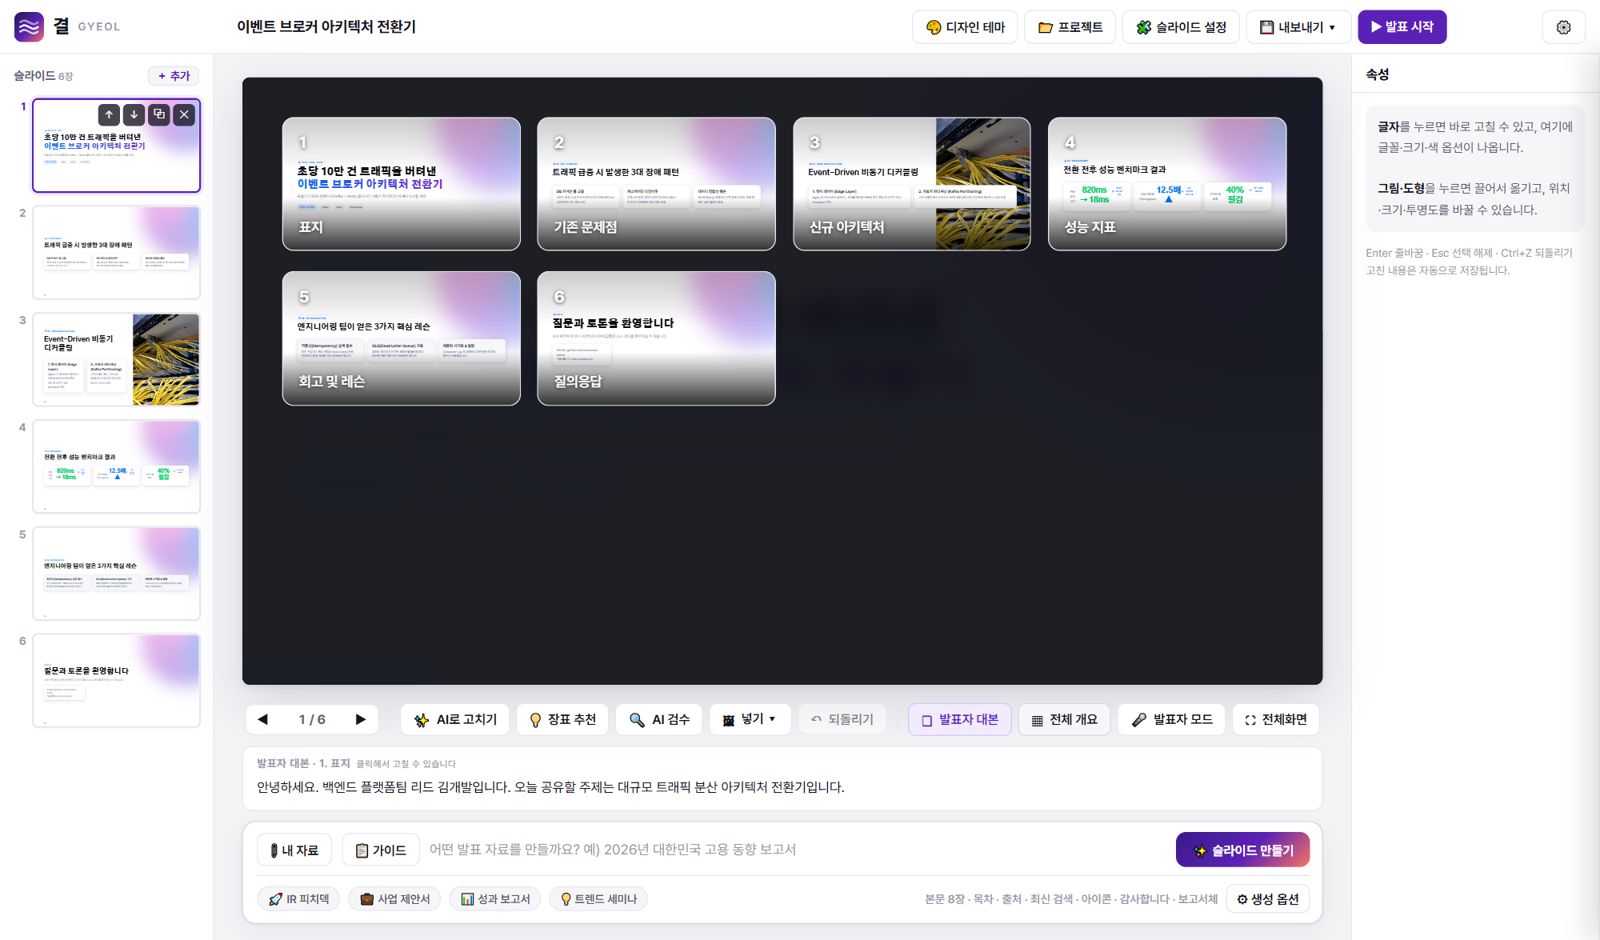
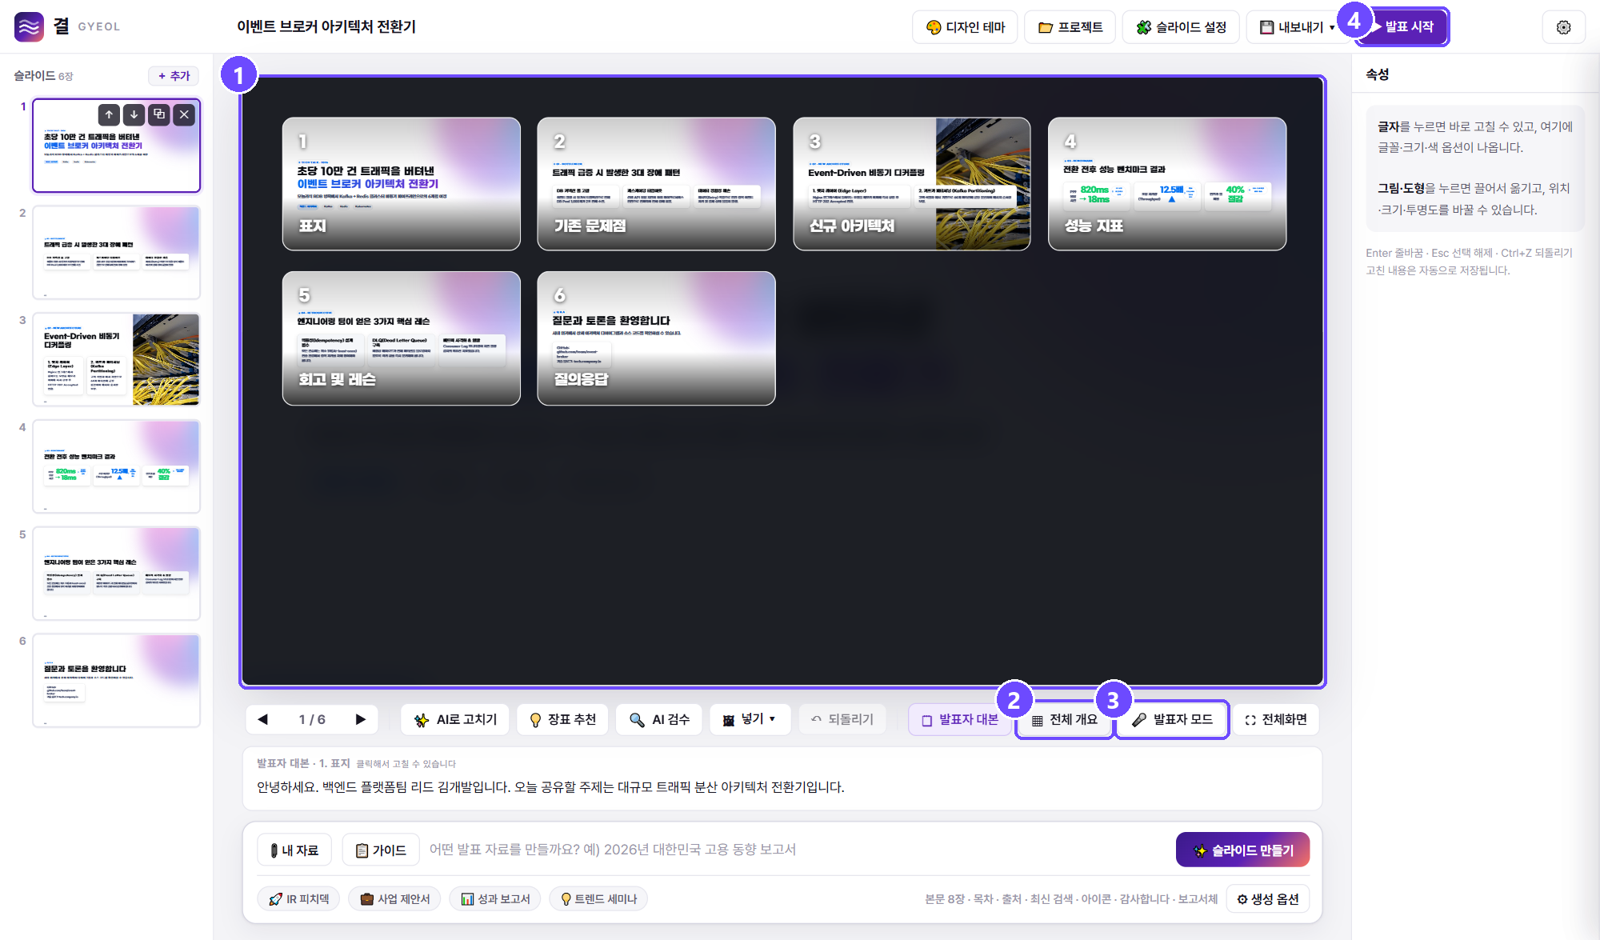
README: 번호 설명 붙인 화면 둘러보기, G마켓 산스 견본 캡처

diff --git a/README.ko.md b/README.ko.md
@@ -15,7 +15,7 @@
 
 [English](README.md) · **한국어**
 
-<img src="docs/images/01_edit_text.png" width="900" alt="결 편집 화면: 슬라이드 목록, 슬라이드, 오른쪽 속성 패널">
+<img src="docs/images/00_hero.png" width="900" alt="결 편집 화면: 슬라이드 목록, 슬라이드, 오른쪽 속성 패널">
 
 </div>
 
@@ -34,18 +34,67 @@
 | 🖼 **사진 · 아이콘 · 도형** | 무료 사진 검색, AI 그림, 한글로 찾는 아이콘 200여 개, 도형, 내 사진을 넣을 수 있습니다. |
 | 📤 **다양한 내보내기** | 편집 가능한 파워포인트, 원본 그대로 파워포인트, PDF, HTML 한 파일, PNG 묶음, 1080p MP4 동영상, 대본(.md/.txt). |
 
-## 📸 스크린샷
+## 📸 화면 둘러보기
 
-<table>
-<tr>
-<td width="50%"><img src="docs/images/02_edit_photo.png" alt="사진을 누르면 바로 바꾸거나 뺄 수 있음"><br><sub>사진을 누르면 바로 바꾸거나 뺄 수 있음</sub></td>
-<td width="50%"><img src="docs/images/03_themes.png" alt="테마 216종, 누르면 바로 바뀜"><br><sub>테마 216종, 누르면 바로 바뀜</sub></td>
-</tr>
-<tr>
-<td width="50%"><img src="docs/images/04_overview.png" alt="모든 슬라이드를 한눈에 (O)"><br><sub>모든 슬라이드를 한눈에 (O)</sub></td>
-<td width="50%"><img src="docs/images/05_export.png" alt="파워포인트·PDF·HTML·PNG·MP4·대본으로 내보내기"><br><sub>파워포인트·PDF·HTML·PNG·MP4·대본으로 내보내기</sub></td>
-</tr>
-</table>
+> 아래 견본은 상업용 무료 서체인 **G마켓 산스**(제목)와 **프리텐다드**(본문)로 만들었습니다. 그림 속 번호는 그림 아래 설명 번호와 같습니다.
+
+### 1 · 글자는 누르면 바로 편집
+
+<img src="docs/images/01_edit_text.png" alt="속성 패널로 글자 편집">
+
+1. **그 자리에서 고치기.** 슬라이드의 글자를 누르고 바로 입력합니다. [편집] 버튼이나 편집 모드가 없습니다. 고른 글자 묶음에는 보라색 테두리가 생깁니다.
+2. **글꼴.** 테마 기본 서체를 쓰거나, 상업용 무료 한글 서체 6종(프리텐다드, G마켓 산스, 스포카 한 산스, 조선일보명조, 나눔스퀘어 네오, 배민 주아) 중에서 고릅니다.
+3. **크기.** 숫자(px)를 직접 넣거나 −/＋로 조절합니다.
+4. **글자색.** 테마 색을 한 번에 고르거나 색상표에서 아무 색이나 고릅니다. 글자 일부만 드래그해서 고르면 그 부분에만 적용됩니다. 굵게·기울임·밑줄·정렬·줄 간격도 같은 방식입니다.
+5. **슬라이드 목록.** 끌어서 순서를 바꿉니다. 미리보기마다 위로·아래로·복제·삭제 버튼이 있습니다.
+6. **도구 모음.** 이전/다음, ✨ AI로 고치기, 💡 장표 추천, 🔍 AI 검수, 🖼 넣기, 되돌리기, 발표자 대본, 전체 개요, 발표자 모드, 전체화면. 창이 좁아도 한 줄을 유지하고 글자를 줄여 아이콘만 남깁니다.
+7. **발표자 대본.** 슬라이드마다 대본이 함께 만들어집니다. 누르면 바로 고칠 수 있습니다.
+8. **발표 자료 만들기.** 주제를 쓰고, 📎 내 자료나 📋 가이드를 넣고, 추천 주제를 고르고, ⚙ 생성 옵션(장수·글 분량·도표·사진·마무리 장)을 정한 뒤 ✨를 누릅니다.
+
+고친 내용은 손을 멈추고 1초쯤 뒤 자동으로 저장되고, `Ctrl` + `Z`로 되돌릴 수 있습니다.
+
+### 2 · 사진
+
+<img src="docs/images/02_edit_photo.png" alt="슬라이드에서 사진 고르기">
+
+1. **사진 칸.** 사진을 누르면 선택됩니다. 자동으로 만든 슬라이드에는 무료 사진, AI 그림, 또는 내 자료 속 사진이 들어갑니다.
+2. **사진 바꾸기·삭제.** `Delete`로 지우고 `Esc`로 선택을 풉니다.
+3. **🖼 넣기.** 무료 사진 검색, AI 그림, 한글로 찾는 아이콘 200여 개, 도형, 내 사진을 넣습니다. 넣은 개체는 끌어서 옮기고, 크기·앞뒤 순서·투명도를 바꿀 수 있습니다.
+4. **✨ AI로 고치기.** 한 줄 요청으로 이 슬라이드만 다시 쓰거나, 뒤에 새 슬라이드를 추가합니다.
+5. **💡 장표 추천.** 이 슬라이드 내용에 어울리는 구성·도식·꾸밈을 추천합니다.
+
+### 3 · 디자인 테마
+
+<img src="docs/images/03_themes.png" alt="테마 216종 패널">
+
+1. **검색.** 테마 이름이나 스타일로 찾습니다.
+2. **전체 서체.** 발표 자료 전체의 서체를 한 번에 바꿉니다.
+3. **스타일 거르기.** 22가지 스타일(스위스 타이포, 스타트업 그라디언트, 기업 보고서, 에디토리얼 명조, 네오 브루탈, 터미널, 한지 등)과 밝은/어두운 테마로 거릅니다.
+4. **테마 카드.** 누르면 바로 바뀝니다. 글자·사진·고친 내용은 그대로 남습니다.
+
+### 4 · 전체 개요와 발표
+
+<img src="docs/images/04_overview.png" alt="전체 슬라이드 개요">
+
+1. **전체 개요.** 모든 슬라이드를 제목과 함께 한눈에 봅니다. 누르면 그 장으로 갑니다.
+2. 여기를 누르거나 `O` 키로 켜고 끕니다.
+3. **발표자 모드**(`S`). 대본·타이머·다음 슬라이드가 보이는 창이 따로 열립니다.
+4. **▶ 발표 시작.** 애니메이션·전환 효과와 함께 전체화면으로 발표합니다.
+
+### 5 · 내보내기
+
+<img src="docs/images/05_export.png" alt="내보내기 메뉴">
+
+1. **파워포인트, 편집 가능.** 글자를 고칠 수 있는 진짜 글상자로 만들고, 대본은 발표자 노트에 넣습니다.
+2. **파워포인트, 원본 그대로.** 슬라이드를 그림으로 넣어 디자인이 100% 똑같습니다.
+3. **PDF.** 인쇄·배포용으로 한 쪽에 한 장씩 담습니다.
+4. **HTML.** 파일 하나로 애니메이션과 발표자 모드까지 그대로 됩니다.
+5. **PNG 묶음.** 슬라이드마다 이미지 한 장씩 zip으로 묶습니다.
+6. **MP4 동영상.** 애니메이션·전환을 살린 1080p 영상입니다.
+7. **대본과 개요(.md).** 슬라이드별 핵심 요약과 대본입니다.
+8. **대본 전문(.txt).** 리허설이나 프롬프터용입니다.
+
+내보낼 때 서체를 함께 넣어서 다른 PC에서 열어도 똑같이 보입니다.
 
 ## 🚀 시작하기
 

diff --git a/README.md b/README.md
@@ -15,7 +15,7 @@ Type a topic or drop in your files, and get a researched, designed deck with a s
 
 **English** · [한국어](README.ko.md)
 
-<img src="docs/images/01_edit_text.png" width="900" alt="GYEOL editor: slide list, live slide, properties panel">
+<img src="docs/images/00_hero.png" width="900" alt="GYEOL editor: slide list, live slide, properties panel">
 
 </div>
 
@@ -34,18 +34,67 @@ Type a topic or drop in your files, and get a researched, designed deck with a s
 | 🖼 **Images, icons and shapes** | Free stock photo search, AI images, 200+ icons with Korean search, shapes, or your own pictures. |
 | 📤 **Export anywhere** | Editable PowerPoint, pixel-perfect PowerPoint, PDF, single-file HTML, PNG set, 1080p MP4, and the script as .md or .txt. |
 
-## 📸 Screenshots
+## 📸 A tour of the editor
 
-<table>
-<tr>
-<td width="50%"><img src="docs/images/02_edit_photo.png" alt="Click a picture to replace or remove it"><br><sub>Click a picture to replace or remove it</sub></td>
-<td width="50%"><img src="docs/images/03_themes.png" alt="216 themes, switched instantly"><br><sub>216 themes, switched instantly</sub></td>
-</tr>
-<tr>
-<td width="50%"><img src="docs/images/04_overview.png" alt="Overview of every slide (O)"><br><sub>Overview of every slide (O)</sub></td>
-<td width="50%"><img src="docs/images/05_export.png" alt="Export to PowerPoint, PDF, HTML, PNG, MP4 or script"><br><sub>Export to PowerPoint, PDF, HTML, PNG, MP4 or script</sub></td>
-</tr>
-</table>
+> The sample deck below uses **Gmarket Sans** (titles) and **Pretendard** (body), both free for commercial use. Numbers in each picture match the notes under it.
+
+### 1 · Click any text to edit it
+
+<img src="docs/images/01_edit_text.png" alt="Editing text with the properties panel">
+
+1. **Edit in place.** Click any text on the slide and start typing. No edit button or edit mode. The selected block gets a purple frame.
+2. **Font.** Keep the theme's font, or pick one of six free-for-commercial-use Korean fonts: Pretendard, Gmarket Sans, Spoqa Han Sans, Chosunilbo Myungjo, NanumSquare Neo and BM Jua.
+3. **Size.** Type a pixel size or step it with − / +.
+4. **Color.** Theme colors in one click, or any color with the picker. Drag across part of the text first and the change applies only to that part. Bold, italic, underline, alignment and line spacing work the same way.
+5. **Slide list.** Drag to reorder. Each thumbnail has move up, move down, duplicate and delete buttons.
+6. **Slide toolbar.** Previous/next, ✨ AI fix, 💡 slide advisor, 🔍 AI review, 🖼 insert, undo, speaker script, overview, presenter mode and fullscreen. It stays on one row and drops labels on narrow windows.
+7. **Speaker script.** Every slide comes with a script. Click to edit it.
+8. **Make a deck.** Type a topic, attach 📎 your files or a 📋 guide, pick a preset, set ⚙ options (slide count, text density, charts, photos, closing slide) and press ✨.
+
+Changes save automatically about a second after you stop. `Ctrl` + `Z` undoes them.
+
+### 2 · Pictures
+
+<img src="docs/images/02_edit_photo.png" alt="Selecting a photo on a slide">
+
+1. **Photo panel.** Click a picture to select it. Generated decks fill these from free stock photos, AI images or the photos in your own files.
+2. **Replace or remove** the picture. `Delete` removes it and `Esc` deselects.
+3. **🖼 Insert** free stock photos, AI images, 200+ icons with Korean search, shapes or your own pictures. Inserted objects can be dragged, resized, layered and faded.
+4. **✨ AI fix** rewrites only this slide from a one-line request, or adds a new slide after it.
+5. **💡 Slide advisor** suggests layouts, diagrams and decorations that fit this slide's content.
+
+### 3 · Themes
+
+<img src="docs/images/03_themes.png" alt="Theme panel with 216 themes">
+
+1. **Search** themes by name or style.
+2. **Deck font.** Change the font for the whole deck at once.
+3. **Filter** by 22 styles (Swiss type, startup gradient, corporate report, editorial serif, neo-brutalism, terminal, hanji and more) and by light or dark.
+4. **Click a card** to restyle the deck instantly. Text, photos and edits are kept.
+
+### 4 · Overview and presenting
+
+<img src="docs/images/04_overview.png" alt="Overview grid of all slides">
+
+1. **Overview** shows every slide with its title. Click one to jump to it.
+2. Toggle the overview here or press `O`.
+3. **Presenter mode** (`S`) opens a separate window with the script, a timer and the next slide.
+4. **▶ Present** starts fullscreen with animations and transitions.
+
+### 5 · Export
+
+<img src="docs/images/05_export.png" alt="Export menu">
+
+1. **PowerPoint, editable.** Real text boxes you can edit, with the script in the speaker notes.
+2. **PowerPoint, exact.** Each slide as a picture, so the design looks 100% the same.
+3. **PDF** for printing and sharing, one slide per page.
+4. **HTML**, a single file that keeps animations and presenter mode.
+5. **PNG set**, one image per slide in a zip.
+6. **MP4 video** in 1080p, with animations and transitions.
+7. **Script and outline (.md)**: a summary of each slide plus the script.
+8. **Full script (.txt)** for rehearsal or a teleprompter.
+
+Fonts are embedded on export, so files look the same on other PCs.
 
 ## 🚀 Getting started
 
